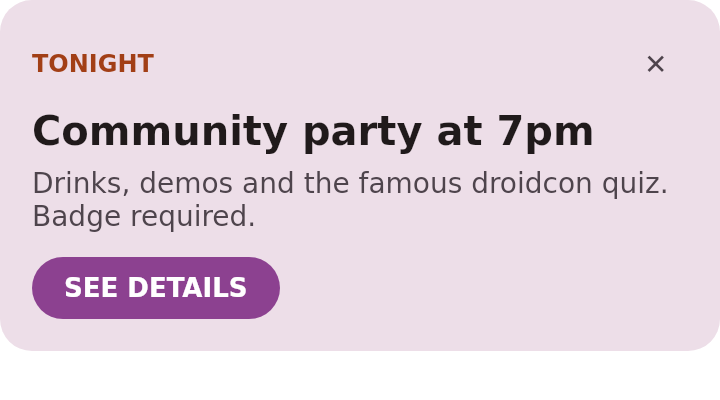
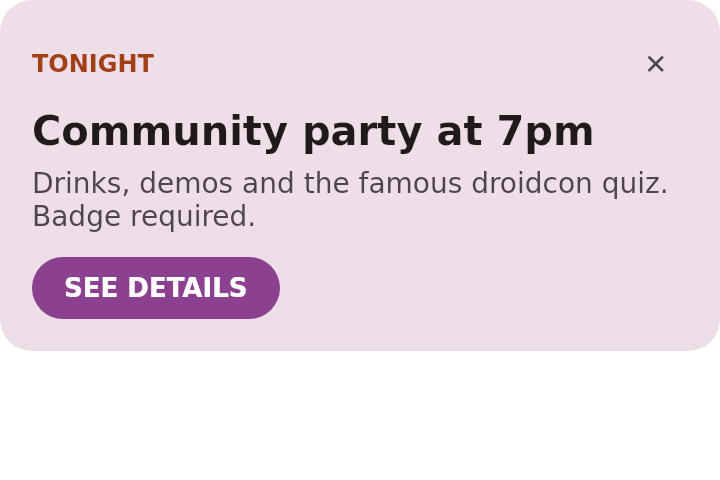
fix(livery): check every contract at its limits, and fit the base promo
The speaker and promo contracts get a `long` example with every input at its maximum length,
as the header and session ones have, so the renders show each design with the longest valid data.
designs() takes header, session, speaker and promo capture heights (a slot is as tall as its
document). The base promo is 240dp: at 200dp a two-line headline and a three-line body left its
CTA no room.

Claude-Session: https://claude.ai/code/session_017xSuvobFYXdQ2QMpahMagX

diff --git a/livery-catalog/src/main/kotlin/dev/johnoreilly/confetti/livery/Catalog.kt b/livery-catalog/src/main/kotlin/dev/johnoreilly/confetti/livery/Catalog.kt
@@ -41,14 +41,20 @@ private fun wear(content: @Composable () -> Unit) = TemplateDef("wear-large", WE
 fun designs(
     brand: ConferenceBrand, example: String, title: String,
     header: @Composable () -> Unit, session: @Composable () -> Unit, speaker: @Composable () -> Unit, promo: @Composable () -> Unit,
+    // Capture heights: a slot is as tall as its document, so a design whose content needs more
+    // room than the default must ask for it, or its last row (often the action) is clipped. Each
+    // contract's `long` example renders every input at its limit to check that it fits.
+    headerHeightDp: Int = 210,
+    sessionHeightDp: Int = 150,
     speakerHeightDp: Int = 110,
+    promoHeightDp: Int = 200,
     sessionWidget: (@Composable () -> Unit)? = null, sessionWear: (@Composable () -> Unit)? = null,
 ) = listOf(
-    DesignDef("${brand.series}-header", ConferenceContract, brand, "$title header", example, listOf(inApp(210, header))),
+    DesignDef("${brand.series}-header", ConferenceContract, brand, "$title header", example, listOf(inApp(headerHeightDp, header))),
     DesignDef("${brand.series}-session", SessionContract, brand, "$title session", example,
-        listOfNotNull(inApp(150, session), sessionWidget?.let(::launcher), sessionWear?.let(::wear))),
+        listOfNotNull(inApp(sessionHeightDp, session), sessionWidget?.let(::launcher), sessionWear?.let(::wear))),
     DesignDef("${brand.series}-speaker", SpeakerContract, brand, "$title speaker", example, listOf(inApp(speakerHeightDp, speaker))),
-    DesignDef("${brand.series}-promo", PromoContract, brand, "$title promotion", example, listOf(inApp(200, promo)), install = "OnDemand"),
+    DesignDef("${brand.series}-promo", PromoContract, brand, "$title promotion", example, listOf(inApp(promoHeightDp, promo)), install = "OnDemand"),
 )
 
 /** Every design in every catalog. Each conference's designs join in their own PR. */

diff --git a/livery-contracts/src/commonMain/kotlin/dev/johnoreilly/confetti/livery/Contracts.kt b/livery-contracts/src/commonMain/kotlin/dev/johnoreilly/confetti/livery/Contracts.kt
@@ -199,6 +199,10 @@ object SpeakerContract : ConfettiContract("confetti/speaker", 1, 0, "Speaker car
     override val examples get() = mapOf(
         "default" to mapOf(name to "Jane Doe", tagline to "Android GDE · Acme", sessions to "2 sessions"),
         "kotlinconf" to mapOf(name to "Alex Kotlin", tagline to "Kotlin team · JetBrains", sessions to "Keynote"),
+        // Every input at its limit: the renders check the card still fits.
+        "long" to mapOf(name to "A speaker name that runs to sixty characters, just to check!", tagline to
+            "A job title and a company name that wraps over two lines and keeps on going on.",
+            sessions to "Twenty-char sessions"),
     )
 }
 
@@ -217,6 +221,9 @@ object PromoContract : ConfettiContract("confetti/promo", 1, 0, "Conference prom
             body to "Drinks, demos and the famous droidcon quiz. Badge required.", cta to "SEE DETAILS", url to "https://london.droidcon.com"),
         "kotlinconf" to mapOf(eyebrow to "Workshops", headline to "Hands-on Compose Multiplatform",
             body to "A full-day workshop the day before the conference. 12 seats left.", cta to "Book a seat", url to "https://kotlinconf.com/workshops"),
+        "long" to mapOf(eyebrow to "Twenty chars eyebrow", headline to "A headline that runs to forty-eight characters x",
+            body to "A body that runs on for all of the one hundred and twenty characters it may use, to check that the whole promotion fits.",
+            cta to "Twenty-char CTA text", url to "https://kotlinconf.com/workshops"),
     )
 }
 

diff --git a/livery-catalog/src/main/kotlin/dev/johnoreilly/confetti/livery/ConfettiDesigns.kt b/livery-catalog/src/main/kotlin/dev/johnoreilly/confetti/livery/ConfettiDesigns.kt
@@ -40,6 +40,8 @@ val ConfettiDesigns: List<DesignDef> = designs(
     session = { with(ContractScope(SessionContract, Confetti)) { ConfettiSession() } },
     speaker = { with(ContractScope(SpeakerContract, Confetti)) { ConfettiSpeaker() } },
     promo = { with(ContractScope(PromoContract, Confetti)) { ConfettiPromo() } },
+    // A two-line headline and a three-line body leave the CTA no room at 200dp.
+    promoHeightDp = 240,
 )
 
 @Composable
